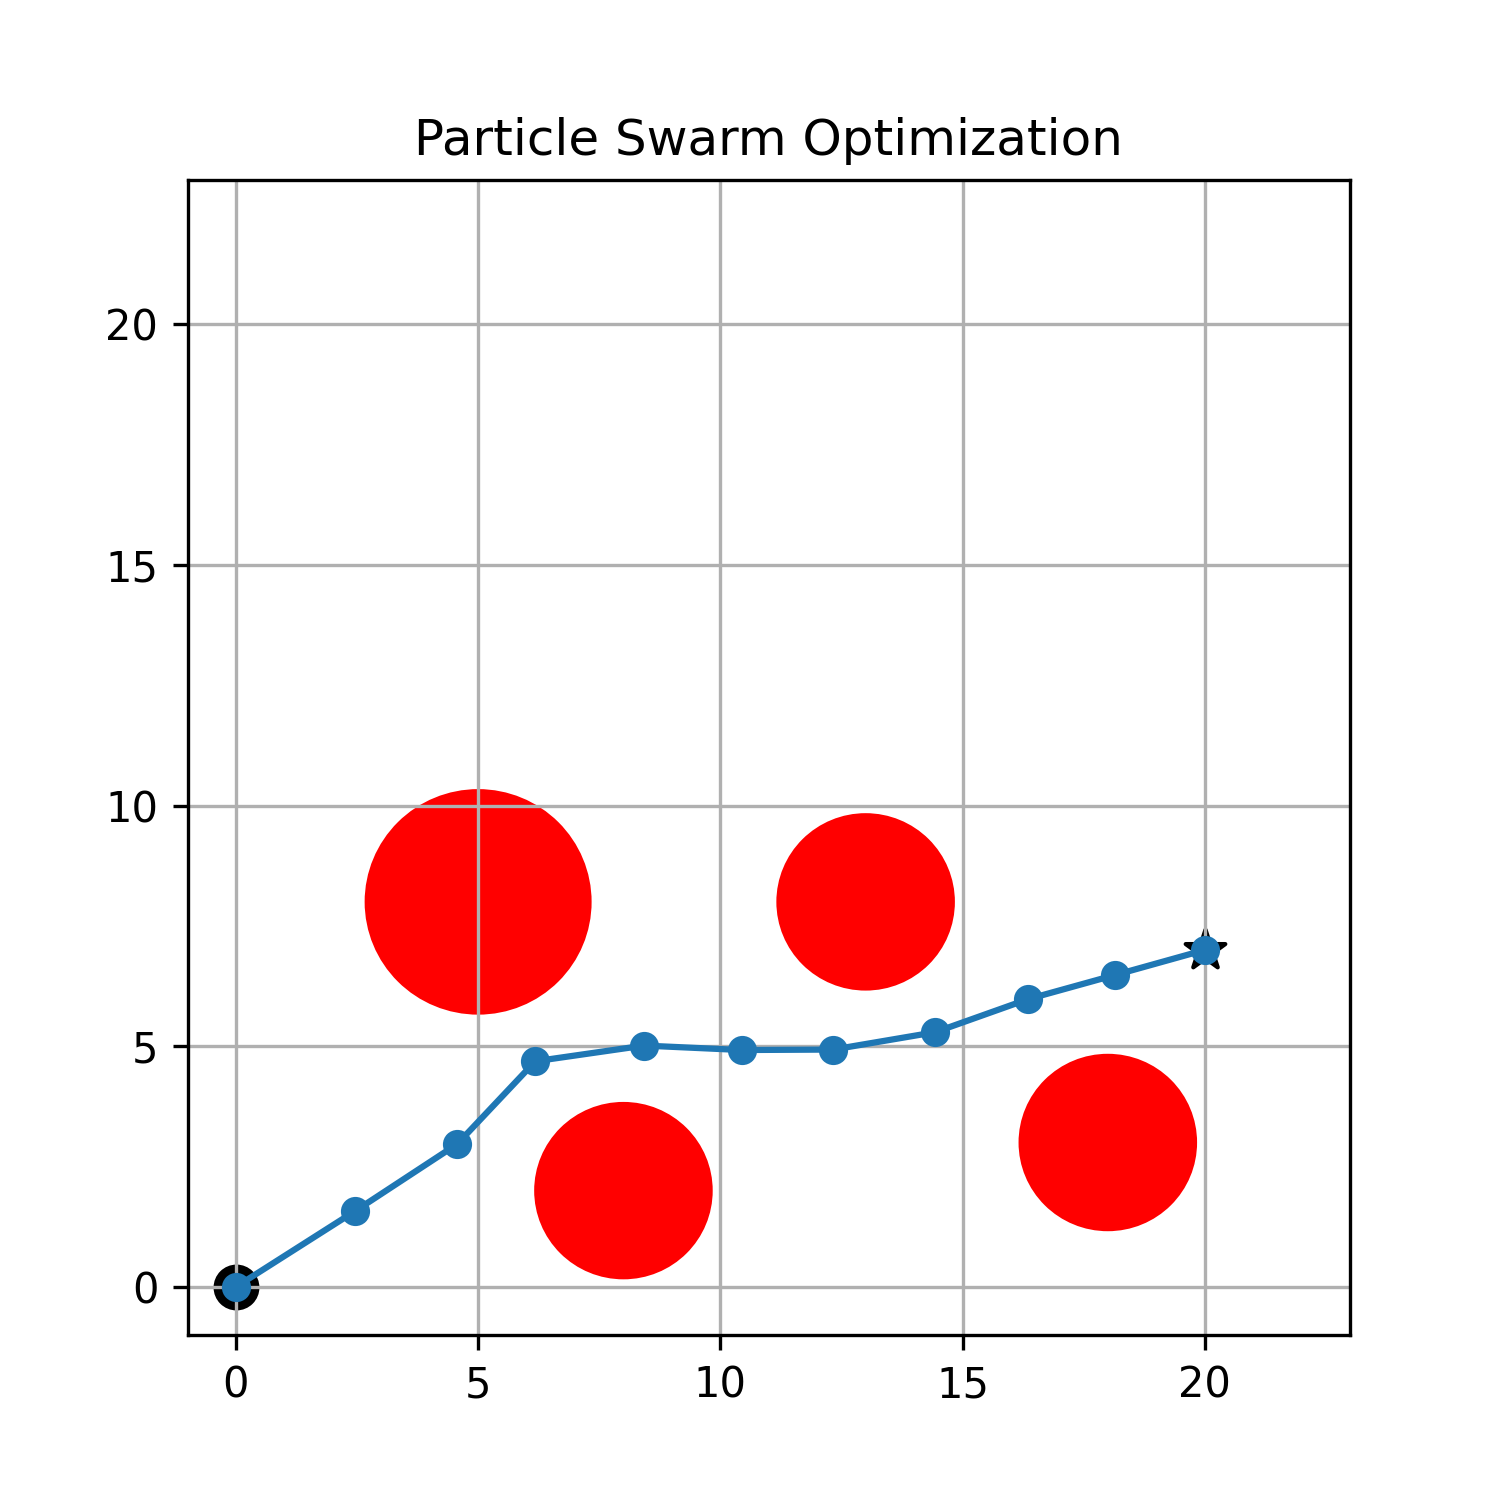
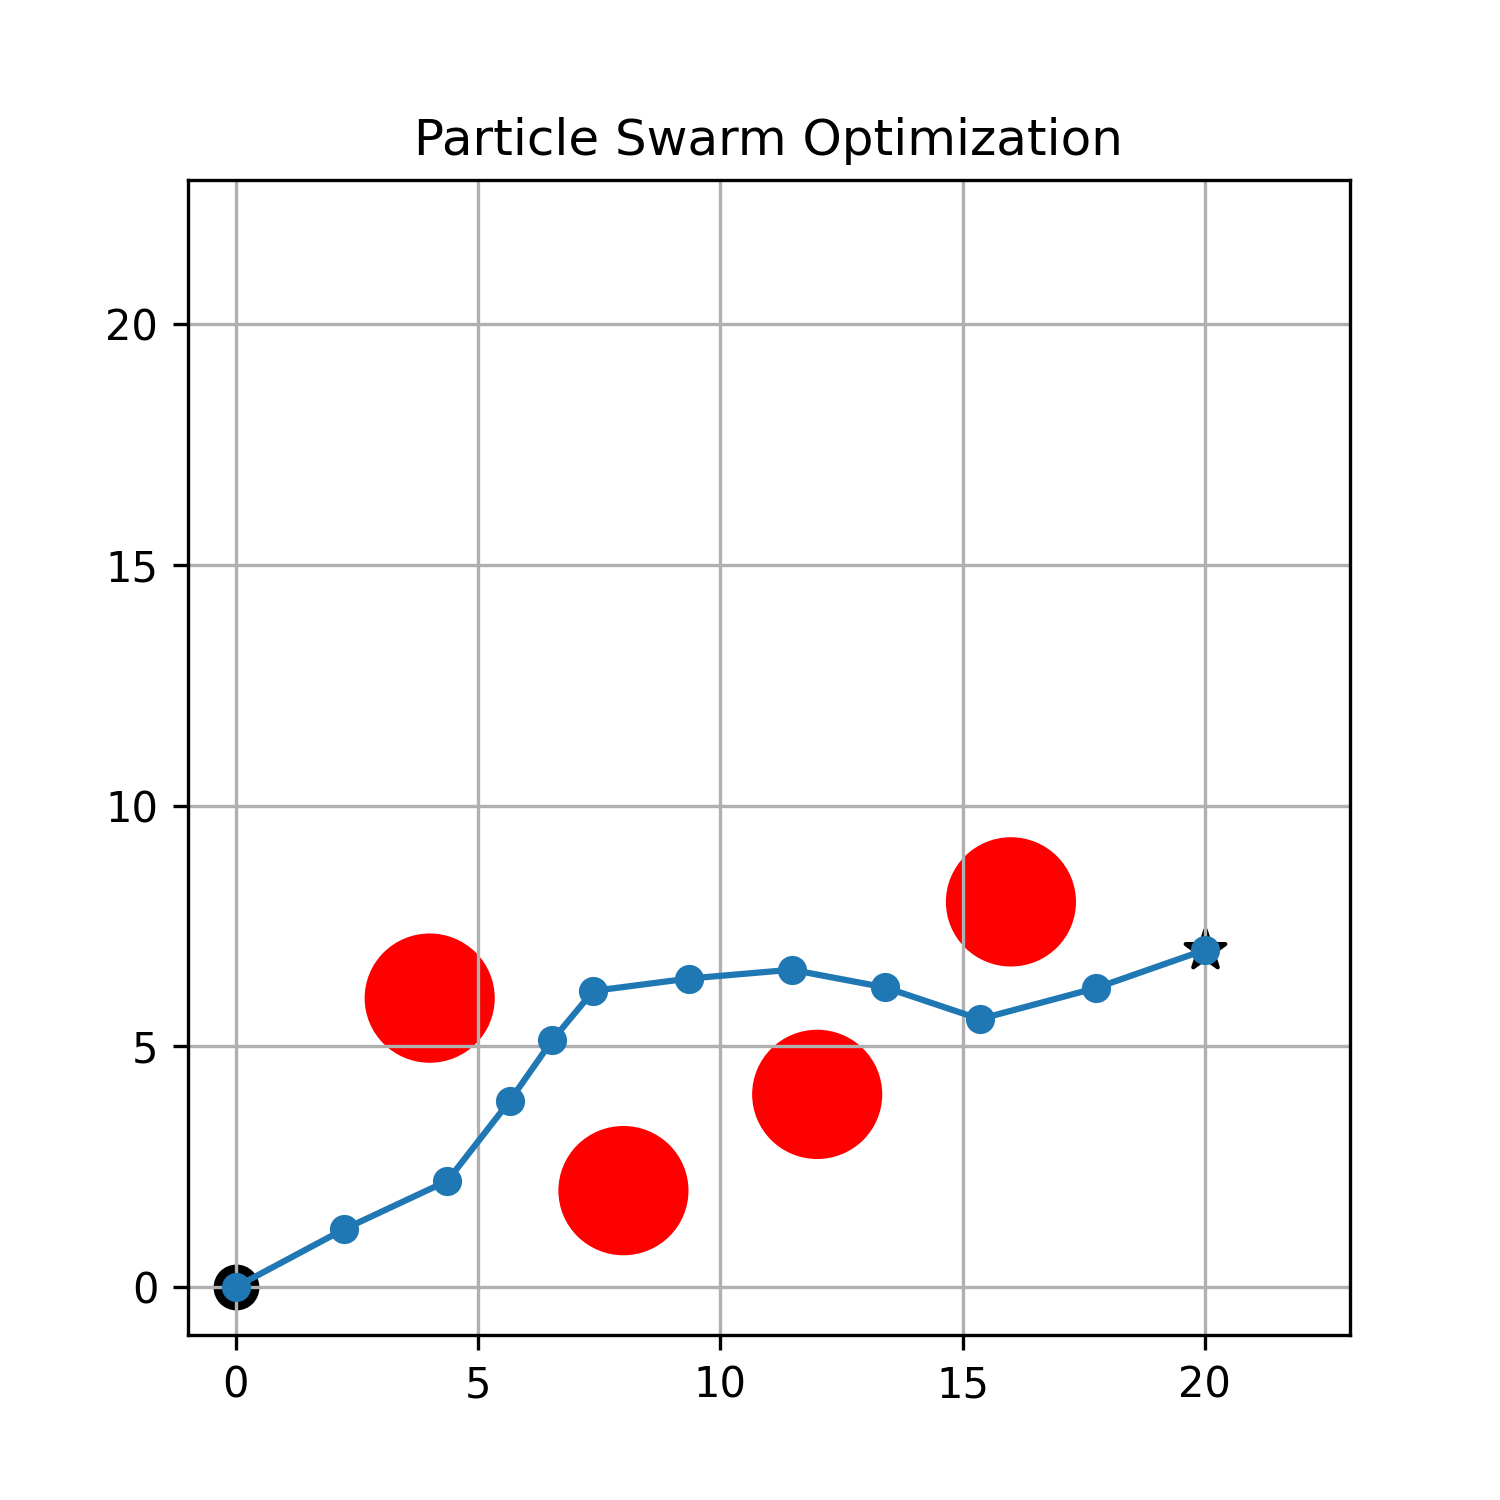
second commit: change params PSO

Changed region(s): [[0.2147, 0.5213, 0.7667, 0.8587], [0.6747, 0.7053, 0.7973, 0.828], [0.184, 0.828, 0.2147, 0.8587]]

diff --git a/main_copy.py b/main_copy.py
@@ -6,12 +6,11 @@ import matplotlib.pyplot as plt
 
 def plot_circle(circle):
     """
-    This function plot one circle.
+    This function plots one circle.
 
     Parameters:
         circle (Obstacle_Circle): Circle to plot.
     """
-
     plt.gca().add_patch(
         plt.Circle(
             (circle.C.x, circle.C.y), circle.r - 0.2, edgecolor="red", facecolor="red"
@@ -21,12 +20,11 @@ def plot_circle(circle):
 
 def plot_graph(best_location):
     """
-    This function plot the graph.
+    This function plots the graph.
 
     Parameters:
         best_location (List[float, float]): Lists of points to plot.
     """
-
     plt.close("all")
     plt.figure(figsize=(5, 5))
     plt.grid("on")
@@ -49,7 +47,6 @@ def plot_graph(best_location):
             facecolors="blue",
             edgecolors="face",
         )
-        # plt.text(best_location[i][0] + 0.1,best_location[i][1]+0.1,str(i),fontsize=8)
     plt.xlim(-1, 23)
     plt.ylim(-1, 23)
     plt.title("Particle Swarm Optimization")
@@ -70,22 +67,17 @@ def random_initialization(swarm_size):
         float: Best loss function result.
         List[float, float]: The best location.
     """
-
-    # set the location and velocity of the particle's
-    # particles_loc = np.random.rand(swarm_size, DIM, 2) * 20
-    particles_loc_x = np.random.rand(swarm_size,DIM)*20
-    particles_loc_y = np.random.rand(swarm_size,DIM)*10
-    particles_loc = np.stack((particles_loc_x,particles_loc_y),axis= -1)
+    particles_loc_x = np.random.rand(swarm_size, DIM) * 20
+    particles_loc_y = np.random.rand(swarm_size, DIM) * 10
+    particles_loc = np.stack((particles_loc_x, particles_loc_y), axis=-1)
 
     particles_vel = np.random.rand(swarm_size, DIM, 2)
 
-    # set the initial particle best location and value
     particles_lowest_loss = [
         loss_function(particles_loc[i, :, :]) for i in range(0, len(particles_loc))
     ]
     particles_best_location = np.copy(particles_loc)
 
-    # set the initial global best location and value
     global_lowest_loss = np.min(particles_lowest_loss)
     global_best_location = particles_loc[np.argmin(particles_lowest_loss)].copy()
 
@@ -109,7 +101,6 @@ def loss_function(x):
     Returns:
         int: The loss function result
     """
-
     z = (x[0, 0] - START.x) ** 2 + (x[0, 1] - START.y) ** 2
     for i in range(DIM - 1):
         z = z + ((x[i, 0] - x[i + 1, 0]) ** 2 + (x[i, 1] - x[i + 1, 1]) ** 2)
@@ -126,7 +117,7 @@ def is_valid(circles, p):
         p (Point): The point to check.
 
     Returns:
-        boolean: wheter the point is valid
+        boolean: whether the point is valid
     """
     to_add = ob.Point(0, 0)
     point_p = ob.Point(p[0], p[1])
@@ -137,6 +128,29 @@ def is_valid(circles, p):
                 circles[i].how_to_exit_y(point_p.y) + to_add.y,
             )
     return to_add
+
+
+def adjust_particle_positions(particle):
+    """
+    Adjusts the positions of the particles to ensure consistent segment lengths.
+
+    Parameters:
+        particle (List[float, float]): The particle positions.
+    
+    Returns:
+        List[float, float]: Adjusted particle positions.
+    """
+    total_distance = math.sqrt((END.x - START.x) ** 2 + (END.y - START.y) ** 2)
+    segment_length = total_distance / (DIM + 1)
+    
+    adjusted_positions = np.zeros((DIM, 2))
+    
+    for i in range(DIM):
+        t = (i + 1) / (DIM + 1)
+        adjusted_positions[i][0] = START.x * (1 - t) + END.x * t
+        adjusted_positions[i][1] = START.y * (1 - t) + END.y * t
+    
+    return adjusted_positions
 
 
 def particle_swarm_optimization(
@@ -176,7 +190,6 @@ def particle_swarm_optimization(
         for particle_i in range(swarm_size):
             dim_i = 0
             while dim_i < DIM:
-                # update the velocity vector in a given dimension
                 error_particle_best = (
                     particles_best_location[particle_i, dim_i]
                     - particles_loc[particle_i, dim_i]
@@ -192,7 +205,6 @@ def particle_swarm_optimization(
                     + c2 * np.random.rand(1) * error_global_best
                 )
 
-                # bound a particle's velocity to the maximum value
                 if new_vel[0] < -max_vel:
                     new_vel[0] = -max_vel
                 elif new_vel[0] > max_vel:
@@ -202,7 +214,6 @@ def particle_swarm_optimization(
                 elif new_vel[1] > max_vel:
                     new_vel[1] = max_vel
 
-                # update the particle location and velocity
                 particles_loc[particle_i, dim_i] = (
                     particles_loc[particle_i, dim_i] + new_vel[:] * step_size
                 )
@@ -214,7 +225,7 @@ def particle_swarm_optimization(
                 if abs(particle_help.x) > 0.1 or abs(particle_help.y) > 0.1:
                     dim_i -= 1
                 dim_i += 1
-            # for the new location, check if this is a new local or global best (if it's valid)
+            particles_loc[particle_i] = adjust_particle_positions(particles_loc[particle_i])
             particle_error = loss_function(particles_loc[particle_i, :])
             if particle_error < particles_lowest_loss[particle_i]:  # local best
                 particles_lowest_loss[particle_i] = particle_error
@@ -230,67 +241,35 @@ def particle_swarm_optimization(
 
 
 DIM = 10
-# DIM = 
-# START = ob.Point(1, 1)
-# END = ob.Point(10, 20)
-START = ob.Point(0,0)
-# END = ob.Point(12.5,15)
-END = ob.Point(20,7)
-
+START = ob.Point(0, 0)
+END = ob.Point(20, 7)
 
 
 def main():
     print("Finding best path with PSO:")
     print("loading:")
-    best_location = []  # for the plot
-    path=[]
+    best_location = []
 
-    # # the obstacle using for space1.5x1.5m
-    # obstacle1 = ob.Obstacle_Circle(2, ob.Point(9 +1, 14 + 1))  
-    # obstacle2 = ob.Obstacle_Circle(2.5, ob.Point(5, 6))
-    # obstacle3 = ob.Obstacle_Circle(2, ob.Point(12, 9))
-    # # obstacle4 = ob.Obstacle_Circle(2, ob.Point(12.5, 3))
-    # obstacle4 = ob.Obstacle_Circle(2, ob.Point(5, 12))
-    
-    # the obstacle using for space 2x1 m
     obstacle1 = ob.Obstacle_Circle(1.5, ob.Point(4, 6))
     obstacle2 = ob.Obstacle_Circle(1.5, ob.Point(8, 2))  
     obstacle3 = ob.Obstacle_Circle(1.5, ob.Point(12, 4))
     obstacle4 = ob.Obstacle_Circle(1.5, ob.Point(16, 8))
 
-
-    obstacles = [obstacle1, obstacle2, obstacle3,obstacle4]
-    # original params 
-        # max_iterations=100,
-        # swarm_size=500,
-        # max_vel=3,
-        # step_size=1,
-        # inertia=0.9,
-        # c1=2.05,
-        # c2=2.05,
-        # circles=obstacles,
-
+    obstacles = [obstacle1, obstacle2, obstacle3, obstacle4]
 
     best_location = particle_swarm_optimization(
         max_iterations=100,
         swarm_size=200,
         max_vel=3,
         step_size=1,
-        inertia=0.8,
-        c1=1.85,
-        c2=1.85,
+        inertia=0.9,
+        c1=2.05,
+        c2=2.05,
         circles=obstacles,
     )
     print("100% completed!")
-    ##add start point và end point 
-    path.append([START.x,START.y])
-    for loc in best_location:
-        path.append([loc[0], loc[1]])
-    path.append([END.x,END.y])
-    for i in range(len(path)):
-        path[i][0] /= 10
-        path[i][1] /= 10
-    print("best path:{}".format(path))
+
+    print("best path:{}".format(best_location))
     plot_graph(best_location)
     for obstacle in obstacles:
         plot_circle(obstacle)

diff --git a/gotopoint_and_socket.py b/gotopoint_and_socket.py
@@ -61,13 +61,14 @@ try:
         data_received = ser.readline().decode('utf-8').strip()
         print(data_received + "\n")
         cmd, X, Y, Theta = decoder_frame_data(data_received)
-        
-        # Send odom data to the client
         odom_data = "!cmd:{}#x:{}#y:{}#theta:{}#\n".format(cmd,X, Y,Theta)
+        send_point(path, cmd)
+        # Send odom data to the client
+        
         client_socket.sendall(odom_data.encode())
         print("Sent to client:", odom_data)
 
-        send_point(path, cmd)
+        
 
 except KeyboardInterrupt:
     ser.close()
